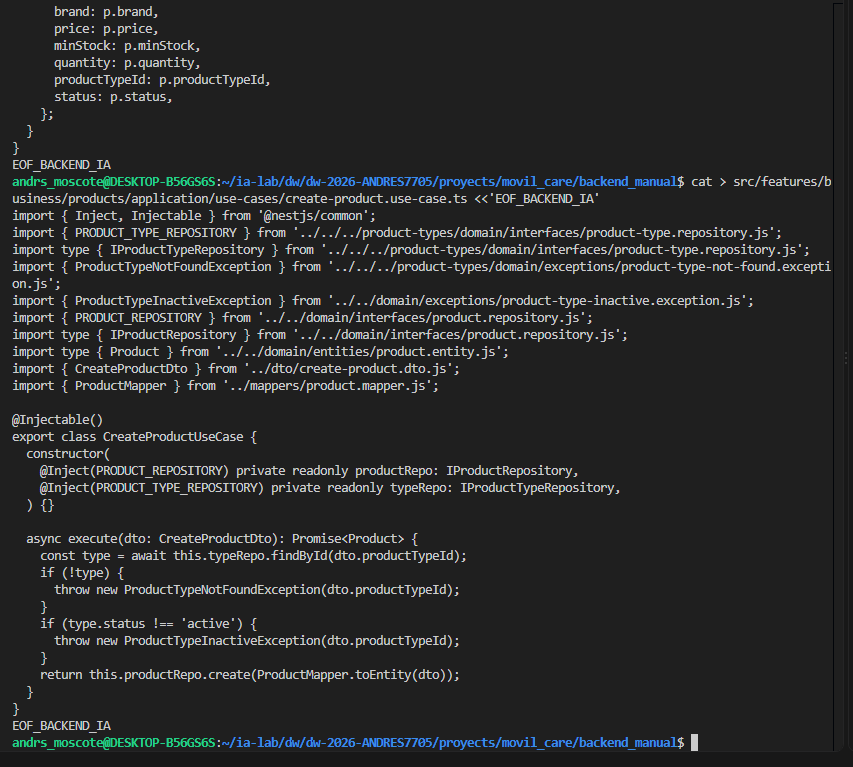
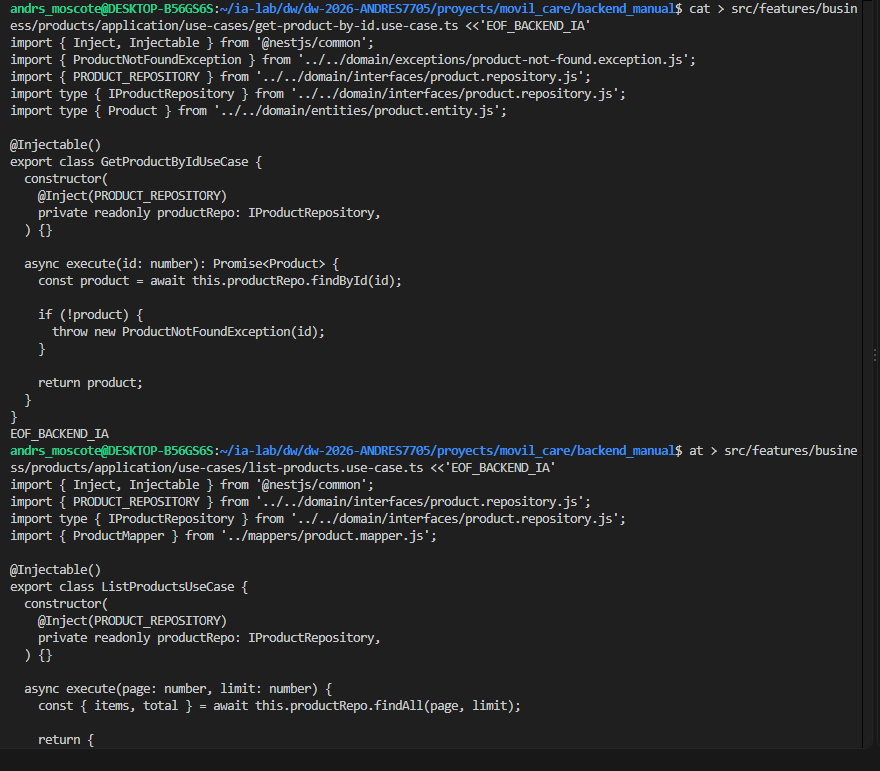
Capa de aplicación

Changed region(s): [[0.0, 0.0, 0.9754, 0.5098], [0.0, 0.5398, 0.9754, 0.9896], [0.8839, 0.2099, 0.9754, 0.2399]]

diff --git a/proyects/movil_care/backend_manual/src/features/business/products/application/dto/create-product.dto.ts b/proyects/movil_care/backend_manual/src/features/business/products/application/dto/create-product.dto.ts
@@ -1,47 +1,39 @@
 import { ApiProperty, ApiPropertyOptional } from '@nestjs/swagger';
 import {
-  IsInt,
   IsNotEmpty,
   IsNumber,
   IsOptional,
   IsPositive,
   IsString,
   MaxLength,
-  Min,
 } from 'class-validator';
 
 export class CreateProductDto {
-  @ApiProperty({ example: 'Agua Cristal 600ml' })
+  @ApiProperty({ example: 'IPH15-128-BLK' })
   @IsString()
-  @IsNotEmpty({ message: 'name es requerido' })
+  @IsNotEmpty({ message: 'sku es requerido' })
+  @MaxLength(50)
+  sku!: string;
+
+  @ApiProperty({ example: 'iPhone 15 128GB' })
+  @IsString()
+  @IsNotEmpty({ message: 'nombre es requerido' })
   @MaxLength(150)
-  name!: string;
+  nombre!: string;
 
-  @ApiPropertyOptional({ example: 'Cristal' })
+  @ApiPropertyOptional({
+    example: 'Dispositivo móvil de 128GB',
+  })
   @IsOptional()
   @IsString()
-  @MaxLength(100)
-  brand?: string;
+  @MaxLength(500)
+  descripcion?: string;
 
-  @ApiProperty({ example: 2500 })
-  @IsNumber({ maxDecimalPlaces: 2 }, { message: 'price debe ser un número' })
-  @IsPositive({ message: 'price debe ser mayor que 0' })
-  price!: number;
-
-  @ApiPropertyOptional({ example: 1 })
-  @IsOptional()
-  @IsInt({ message: 'minStock debe ser entero' })
-  @Min(0, { message: 'minStock no puede ser negativo' })
-  minStock?: number;
-
-  @ApiPropertyOptional({ example: 5 })
-  @IsOptional()
-  @IsInt({ message: 'quantity debe ser entero' })
-  @Min(0, { message: 'quantity no puede ser negativo' })
-  quantity?: number;
-
-  @ApiProperty({ example: 1 })
-  @IsInt({ message: 'productTypeId debe ser entero' })
-  @Min(1, { message: 'productTypeId es requerido' })
-  productTypeId!: number;
+  @ApiProperty({ example: 2500000 })
+  @IsNumber(
+    { maxDecimalPlaces: 2 },
+    { message: 'precio debe ser un número' },
+  )
+  @IsPositive({ message: 'precio debe ser mayor que 0' })
+  precio!: number;
 }

diff --git a/proyects/movil_care/backend_manual/src/features/business/products/application/use-cases/get-product-by-id.use-case.ts b/proyects/movil_care/backend_manual/src/features/business/products/application/use-cases/get-product-by-id.use-case.ts
@@ -1,18 +1,23 @@
 import { Inject, Injectable } from '@nestjs/common';
+import { ProductNotFoundException } from '../../domain/exceptions/product-not-found.exception.js';
 import { PRODUCT_REPOSITORY } from '../../domain/interfaces/product.repository.js';
 import type { IProductRepository } from '../../domain/interfaces/product.repository.js';
 import type { Product } from '../../domain/entities/product.entity.js';
-import { CreateProductDto } from '../dto/create-product.dto.js';
-import { ProductMapper } from '../mappers/product.mapper.js';
 
 @Injectable()
-export class CreateProductUseCase {
+export class GetProductByIdUseCase {
   constructor(
     @Inject(PRODUCT_REPOSITORY)
     private readonly productRepo: IProductRepository,
   ) {}
 
-  async execute(dto: CreateProductDto): Promise<Product> {
-    return this.productRepo.create(ProductMapper.toEntity(dto));
+  async execute(id: number): Promise<Product> {
+    const product = await this.productRepo.findById(id);
+
+    if (!product) {
+      throw new ProductNotFoundException(id);
+    }
+
+    return product;
   }
 }

diff --git a/proyects/movil_care/backend_manual/src/features/business/products/application/mappers/product.mapper.ts b/proyects/movil_care/backend_manual/src/features/business/products/application/mappers/product.mapper.ts
@@ -4,26 +4,22 @@ import { CreateProductDto } from '../dto/create-product.dto.js';
 export class ProductMapper {
   static toEntity(dto: CreateProductDto): Product {
     return new Product({
-      name: dto.name,
-      brand: dto.brand ?? null,
-      price: dto.price,
-      minStock: dto.minStock ?? 0,
-      quantity: dto.quantity ?? 0,
-      productTypeId: dto.productTypeId,
-      status: 'active',
+      sku: dto.sku,
+      nombre: dto.nombre,
+      descripcion: dto.descripcion ?? null,
+      precio: dto.precio,
+      isActive: true,
     });
   }
 
-  static toResponse(p: Product) {
+  static toResponse(product: Product) {
     return {
-      id: p.id,
-      name: p.name,
-      brand: p.brand,
-      price: p.price,
-      minStock: p.minStock,
-      quantity: p.quantity,
-      productTypeId: p.productTypeId,
-      status: p.status,
+      id: product.id,
+      sku: product.sku,
+      nombre: product.nombre,
+      descripcion: product.descripcion,
+      precio: product.precio,
+      isActive: product.isActive,
     };
   }
 }

diff --git a/proyects/movil_care/backend_manual/docks/bitacora_manual.md b/proyects/movil_care/backend_manual/docks/bitacora_manual.md
@@ -1950,6 +1950,13 @@ export class ListProductsUseCase {
 }
 EOF_BACKEND_IA
 
+<p align="center">
+  <img src="capturas/Captura 72.PNG">
+</p>
+
+
+
+
 ## 7.3 Capa de infraestructura
 
 mkdir -p src/features/business/products/infrastructure/persistence/models
